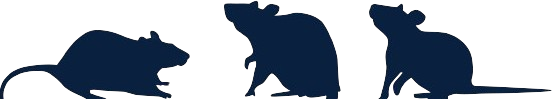
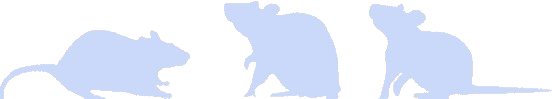
feat: theme revamp (#29)

diff --git a/src/features/WeightTracker/WeightTracker.tsx b/src/features/WeightTracker/WeightTracker.tsx
@@ -3,7 +3,7 @@
 import { HealthyWeightGuidance } from "@/components/HealthyWeightGuidance";
 import { DataPeriod, PeriodFilter } from "@/components/PeriodFilter";
 import { PageSection } from "@/layouts/PageSection";
-import { Box, Heading, Stack } from "@chakra-ui/react";
+import { Box, Heading, Stack, Text } from "@chakra-ui/react";
 import { DataTable } from "./components/DataTable";
 import { Graph } from "./components/Graph";
 
@@ -13,34 +13,35 @@ interface Props {
 
 const WeightTracker = ({ petId }: Props) => {
   return (
-    <PageSection title="Weight Tracker">
-      <Box mt={5}>
-        <PeriodFilter defaultPeriod={DataPeriod.Month}>
-          {(dateRange, currentPeriod) => {
-            return (
-              <Stack spacing={4}>
-                <Graph
+    <Stack spacing={4}>
+      <Text fontSize="3xl" as="h2">
+        Weight Tracker
+      </Text>
+      <PeriodFilter defaultPeriod={DataPeriod.Month}>
+        {(dateRange, currentPeriod) => {
+          return (
+            <Stack spacing={4}>
+              <Graph
+                petId={petId}
+                dateRange={dateRange}
+                currentPeriod={currentPeriod}
+              />
+              <HealthyWeightGuidance />
+              <Stack spacing={2}>
+                <Heading as="h6" size="sm" fontWeight={500}>
+                  Data
+                </Heading>
+                <DataTable
                   petId={petId}
                   dateRange={dateRange}
                   currentPeriod={currentPeriod}
                 />
-                <HealthyWeightGuidance />
-                <Stack spacing={2}>
-                  <Heading as="h6" size="sm" fontWeight={500}>
-                    Data
-                  </Heading>
-                  <DataTable
-                    petId={petId}
-                    dateRange={dateRange}
-                    currentPeriod={currentPeriod}
-                  />
-                </Stack>
               </Stack>
-            );
-          }}
-        </PeriodFilter>
-      </Box>
-    </PageSection>
+            </Stack>
+          );
+        }}
+      </PeriodFilter>
+    </Stack>
   );
 };
 

diff --git a/src/features/PetProfile/PetProfile.tsx b/src/features/PetProfile/PetProfile.tsx
@@ -1,6 +1,7 @@
 "use client";
 
 import { useGetPetById } from "@/api/getPetById";
+import theme from "@/app/theme";
 import { CallToAction } from "@/components/CallToAction";
 import { Stat } from "@/components/Stat";
 import { Avatar, Box, Link, Spinner, Stack, Text } from "@chakra-ui/react";
@@ -42,22 +43,14 @@ const PetProfile = ({ petId }: PetProfileProps) => {
 
   return (
     <Stack spacing={7}>
-      <Box
-        display="grid"
-        gridTemplateColumns="auto 1fr"
-        gap={3}
-        alignItems="center"
-      >
-        <Avatar size="xl" />
-        <Box>
-          <Text fontSize="3xl" as="h2">
-            {data.name}
-          </Text>
-          <Box display="flex" gap={3}>
-            <Link as={NextLink} href={`/pets/${data.id}/edit`}>
-              Edit Profile
-            </Link>
-          </Box>
+      <Box>
+        <Text fontSize="4xl" as="h2">
+          {data.name}
+        </Text>
+        <Box display="flex" gap={3}>
+          <Link as={NextLink} href={`/pets/${data.id}/edit`}>
+            Edit Profile
+          </Link>
         </Box>
       </Box>
       <Box display="grid" gridTemplateColumns="1fr 1fr" gap={3}>
@@ -67,6 +60,12 @@ const PetProfile = ({ petId }: PetProfileProps) => {
           title="Date of Birth"
           value={longDateFormatter.format(new Date(data.dateOfBirth))}
         />
+        
+        <Stat
+          icon={<IoColorPaletteOutline />}
+          title="Fur"
+          value={data.fur.join(" / ")}
+        />
         <Stat
           icon={<IoScaleOutline />}
           title="Latest Weight"
@@ -74,11 +73,6 @@ const PetProfile = ({ petId }: PetProfileProps) => {
             new Date(data.latestWeight.dateTaken)
           )}
           value={`${data.latestWeight.value} grams`}
-        />
-        <Stat
-          icon={<IoColorPaletteOutline />}
-          title="Fur"
-          value={data.fur.join(" / ")}
         />
       </Box>
       <CallToAction

diff --git a/src/app/layout.tsx b/src/app/layout.tsx
@@ -4,6 +4,7 @@ import { Providers } from "./providers";
 import Image from "next/image";
 import { Breadcrumbs } from "@/features/Breadcrumbs";
 import { Footer } from "@/components/Footer";
+import theme from "./theme";
 
 interface RootLayoutProps {
   children: React.ReactNode;
@@ -23,7 +24,7 @@ export default function RootLayout({ children }: RootLayoutProps) {
             }}
           >
             <header>
-              <Container bg="#09203F" color="white" py={3} px={8}>
+              <Container bg={theme.colors.primary} color="black" py={3} px={8}>
                 <Header />
               </Container>
             </header>
@@ -36,16 +37,10 @@ export default function RootLayout({ children }: RootLayoutProps) {
               </Container>
             </Box>
             <footer>
-              <Container
-                py={3}
-                px={8}
-                bg="#09203F"
-                color="white"
-                position="relative"
-              >
-                <Box position="absolute" top={-65} zIndex={-1}>
-                  <Image src="/rats.png" alt={""} width={552} height={99} />
-                </Box>
+              <Container mb={-3} zIndex={-1} position="relative">
+                <Image src="/rats.png" alt={""} width={552} height={99} />
+              </Container>
+              <Container py={3} px={8} bg={theme.colors.primary} color="black">
                 <Footer />
               </Container>
             </footer>

diff --git a/src/app/theme.ts b/src/app/theme.ts
@@ -1,40 +1,33 @@
 import { extendTheme } from "@chakra-ui/react";
 
-const brandColours = {
-  50: "#e3f2ff",
-  100: "#b9d5f9",
-  200: "#8fb8f0",
-  300: "#639ce9",
-  400: "#3980e1",
-  500: "#2166c8",
-  600: "#16509c",
-  700: "#0d3970",
-  800: "#042246",
-  900: "#000b1c",
-};
+const primaryColour = "#cad8f9";
+const secondaryColour = "#a6a7f5";
+const linkColour = "#4A4BB0";
 
 const theme = extendTheme({
   colors: {
-    brand: brandColours,
+    primary: primaryColour,
+    secondary: secondaryColour,
+    link: linkColour,
   },
   components: {
     Link: {
       baseStyle: {
-        color: brandColours[300],
+        color: linkColour,
         textDecoration: "underline",
       },
     },
     Button: {
       variants: {
-        solid: { backgroundColor: brandColours[300], color: "white" },
-        link: { color: brandColours[300] },
-        outline: { borderColor: brandColours[300], color: brandColours[300] },
+        solid: { backgroundColor: linkColour, color: "white" },
+        link: { color: linkColour },
+        outline: { borderColor: linkColour, color: linkColour },
       },
     },
     Breadcrumb: {
       baseStyle: {
         link: {
-          color: brandColours[300],
+          color: linkColour,
           textDecoration: "underline",
         },
       },

diff --git a/src/components/AvatarLink/AvatarLink.tsx b/src/components/AvatarLink/AvatarLink.tsx
@@ -1,3 +1,4 @@
+import theme from "@/app/theme";
 import {
   Avatar,
   Box,
@@ -15,11 +16,19 @@ interface AvatarLinkProps {
   icon?: ReactElement;
 }
 
-const AvatarLink = ({ href, text, icon }: AvatarLinkProps) => {
+const AvatarLink = ({ href, icon, text }: AvatarLinkProps) => {
   return (
     <Link href={href}>
       <Box display="flex" flexDirection="column" alignItems="center">
-        <Avatar icon={icon} size="xl" />
+        <Avatar
+          name={!icon ? text : undefined}
+          size="lg"
+          bg="transparrent"
+          color={theme.colors.link}
+          borderColor={theme.colors.link}
+          border="1px solid"
+          icon={icon}
+        />
         <Text fontSize="2xl">{text}</Text>
       </Box>
     </Link>
@@ -29,8 +38,8 @@ const AvatarLink = ({ href, text, icon }: AvatarLinkProps) => {
 const SkeletonAvatarLink = () => {
   return (
     <Stack spacing={2.5}>
-      <SkeletonCircle size="24" />
-      <SkeletonText noOfLines={1} skeletonHeight="5" />
+      <SkeletonCircle size="20" alignSelf="center" />
+      <SkeletonText noOfLines={1} skeletonHeight="4" />
     </Stack>
   );
 };

diff --git a/src/components/PeriodFilter/PeriodFilter.tsx b/src/components/PeriodFilter/PeriodFilter.tsx
@@ -126,7 +126,7 @@ const PeriodFilter = ({
   };
 
   return (
-    <Stack spacing={5}>
+    <Stack spacing={6}>
       <Box display="flex" justifyContent="center">
         <Stack spacing={3}>
           <Box width="inherit" display="flex" justifyContent="center">
@@ -138,13 +138,13 @@ const PeriodFilter = ({
                   variant={currentPeriod === period ? "solid" : "outline"}
                   aria-pressed={currentPeriod === period}
                   _active={{
-                    backgroundColor: theme.colors.brand[300],
+                    backgroundColor: theme.colors.link,
                     color: "white",
                   }}
                   _hover={
                     currentPeriod === period
                       ? {
-                          backgroundColor: theme.colors.brand[300],
+                          backgroundColor: theme.colors.link,
                           color: "white",
                         }
                       : undefined

diff --git a/src/components/Stat/Stat.tsx b/src/components/Stat/Stat.tsx
@@ -11,20 +11,18 @@ interface StatProps {
 
 const Stat = ({ icon, title, subtitle, value }: StatProps) => {
   return (
-    <Box display="flex" alignItems="top" gap={2}>
-      {React.cloneElement(icon, { size: "2.5em", color: "#09203F" })}
+    <Box display="flex" alignItems="center" gap={2}>
+      {React.cloneElement(icon, { size: "3em", color: "#09203F" })}
       <Box>
-        <Text fontWeight={600} color="GrayText" lineHeight={1} mb={0.5}>
+        <Text fontWeight={600} color="GrayText">
           {title}
         </Text>
+        <Text fontSize="lg">{value}</Text>
         {subtitle && (
-          <Text fontSize="sm" lineHeight={1} mb={1}>
+          <Text fontSize="xs" mb={1}>
             {subtitle}
           </Text>
         )}
-        <Text fontSize="lg" lineHeight={1}>
-          {value}
-        </Text>
       </Box>
     </Box>
   );

diff --git a/src/features/EditPetProfile/EditPetProfile.tsx b/src/features/EditPetProfile/EditPetProfile.tsx
@@ -97,14 +97,8 @@ const EditPetProfile = ({ petId }: EditPetProfileProps) => {
                 />
               </Stack>
               <ButtonGroup flexDirection="column" gap={3}>
-                <Button colorScheme="teal" type="submit">
-                  Submit Form
-                </Button>
-                <Button
-                  colorScheme="teal"
-                  variant="link"
-                  onClick={handleCancel}
-                >
+                <Button type="submit">Submit Form</Button>
+                <Button variant="link" onClick={handleCancel}>
                   Cancel
                 </Button>
               </ButtonGroup>

diff --git a/src/components/CallToAction/CallToAction.tsx b/src/components/CallToAction/CallToAction.tsx
@@ -21,18 +21,17 @@ interface CallToActionProps {
 
 const CallToAction = ({ icon, title, text, href }: CallToActionProps) => {
   return (
-    <Link as={NextLink} href={href}>
+    <Link as={NextLink} href={href} textDecoration="none">
       <Card
         direction="row"
         overflow="hidden"
         variant="elevated"
         borderRadius={10}
-        bg={theme.colors.brand[300]}
-        color="white"
+        bg={theme.colors.secondary}
       >
         <Box
           display="flex"
-          alignItems="top"
+          alignItems="center"
           justifyContent="center"
           mx={5}
           py={3}

diff --git a/src/features/WeightTracker/components/Graph.tsx b/src/features/WeightTracker/components/Graph.tsx
@@ -35,7 +35,7 @@ const Graph = ({ petId, dateRange, currentPeriod }: GraphProps) => {
   ]);
 
   const options: ApexOptions = {
-    colors: [theme.colors.brand[800]],
+    colors: [theme.colors.primary],
     chart: {
       toolbar: {
         show: false,
@@ -78,7 +78,7 @@ const Graph = ({ petId, dateRange, currentPeriod }: GraphProps) => {
     },
     markers: {
       size: 5,
-      colors: theme.colors.brand[300],
+      colors: theme.colors.link,
     },
   };
 

diff --git a/src/components/Footer/Footer.tsx b/src/components/Footer/Footer.tsx
@@ -14,6 +14,7 @@ const Footer = () => {
             href="https://www.freepik.com/free-vector/hand-drawn-rat-silhouette_49273747.htm"
             target="_blank"
             rel="noopener"
+            color="black"
           >
             Freepik
           </Link>

diff --git a/src/components/Header/Header.tsx b/src/components/Header/Header.tsx
@@ -4,7 +4,7 @@ const Header = () => {
   return (
     <Box>
       <Text fontSize="xl" as="h1">
-        Rat Tools
+        My Mischief
       </Text>
     </Box>
   );
